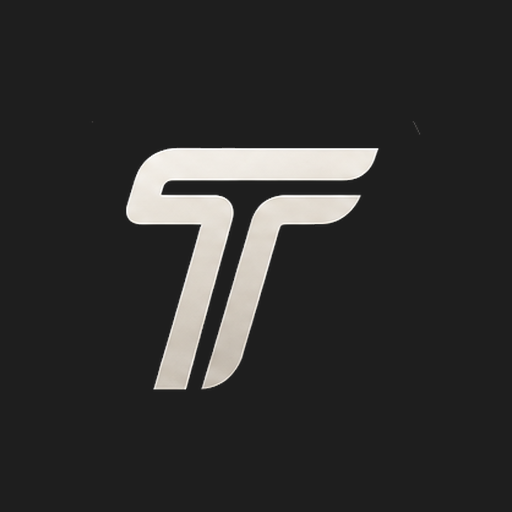
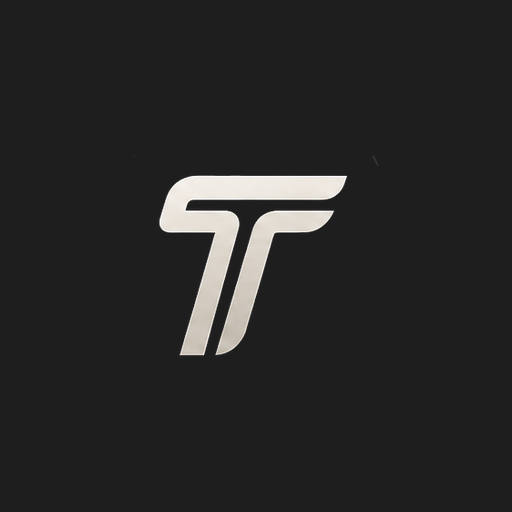
Add files via upload

Changed region(s): [[0.25, 0.2812, 0.75, 0.7812]]

diff --git a/index.html b/index.html
@@ -8,9 +8,9 @@
 <meta name="apple-mobile-web-app-title" content="Trainer">
 <meta name="theme-color" content="#1e1e1e">
 <link rel="manifest" href="manifest.json">
[6 lines of base64/hex data omitted]
 <title>Trainer</title>
 <link rel="preconnect" href="https://fonts.googleapis.com">
 <link href="https://fonts.googleapis.com/css2?family=Barlow+Condensed:wght@300;400;500;600;700;800&family=Barlow:wght@300;400;500;600&display=swap" rel="stylesheet">
@@ -323,7 +323,7 @@ body{color:var(--text);font-family:'Barlow',sans-serif;font-size:15px;max-width:
   <div class="hdr" id="main-hdr">
     <div class="hdr-row">
       <div class="hdr-brand">
[2 lines of base64/hex data omitted]
         <span class="hdr-wordmark">TRAINER</span>
       </div>
       <div class="hdr-right">